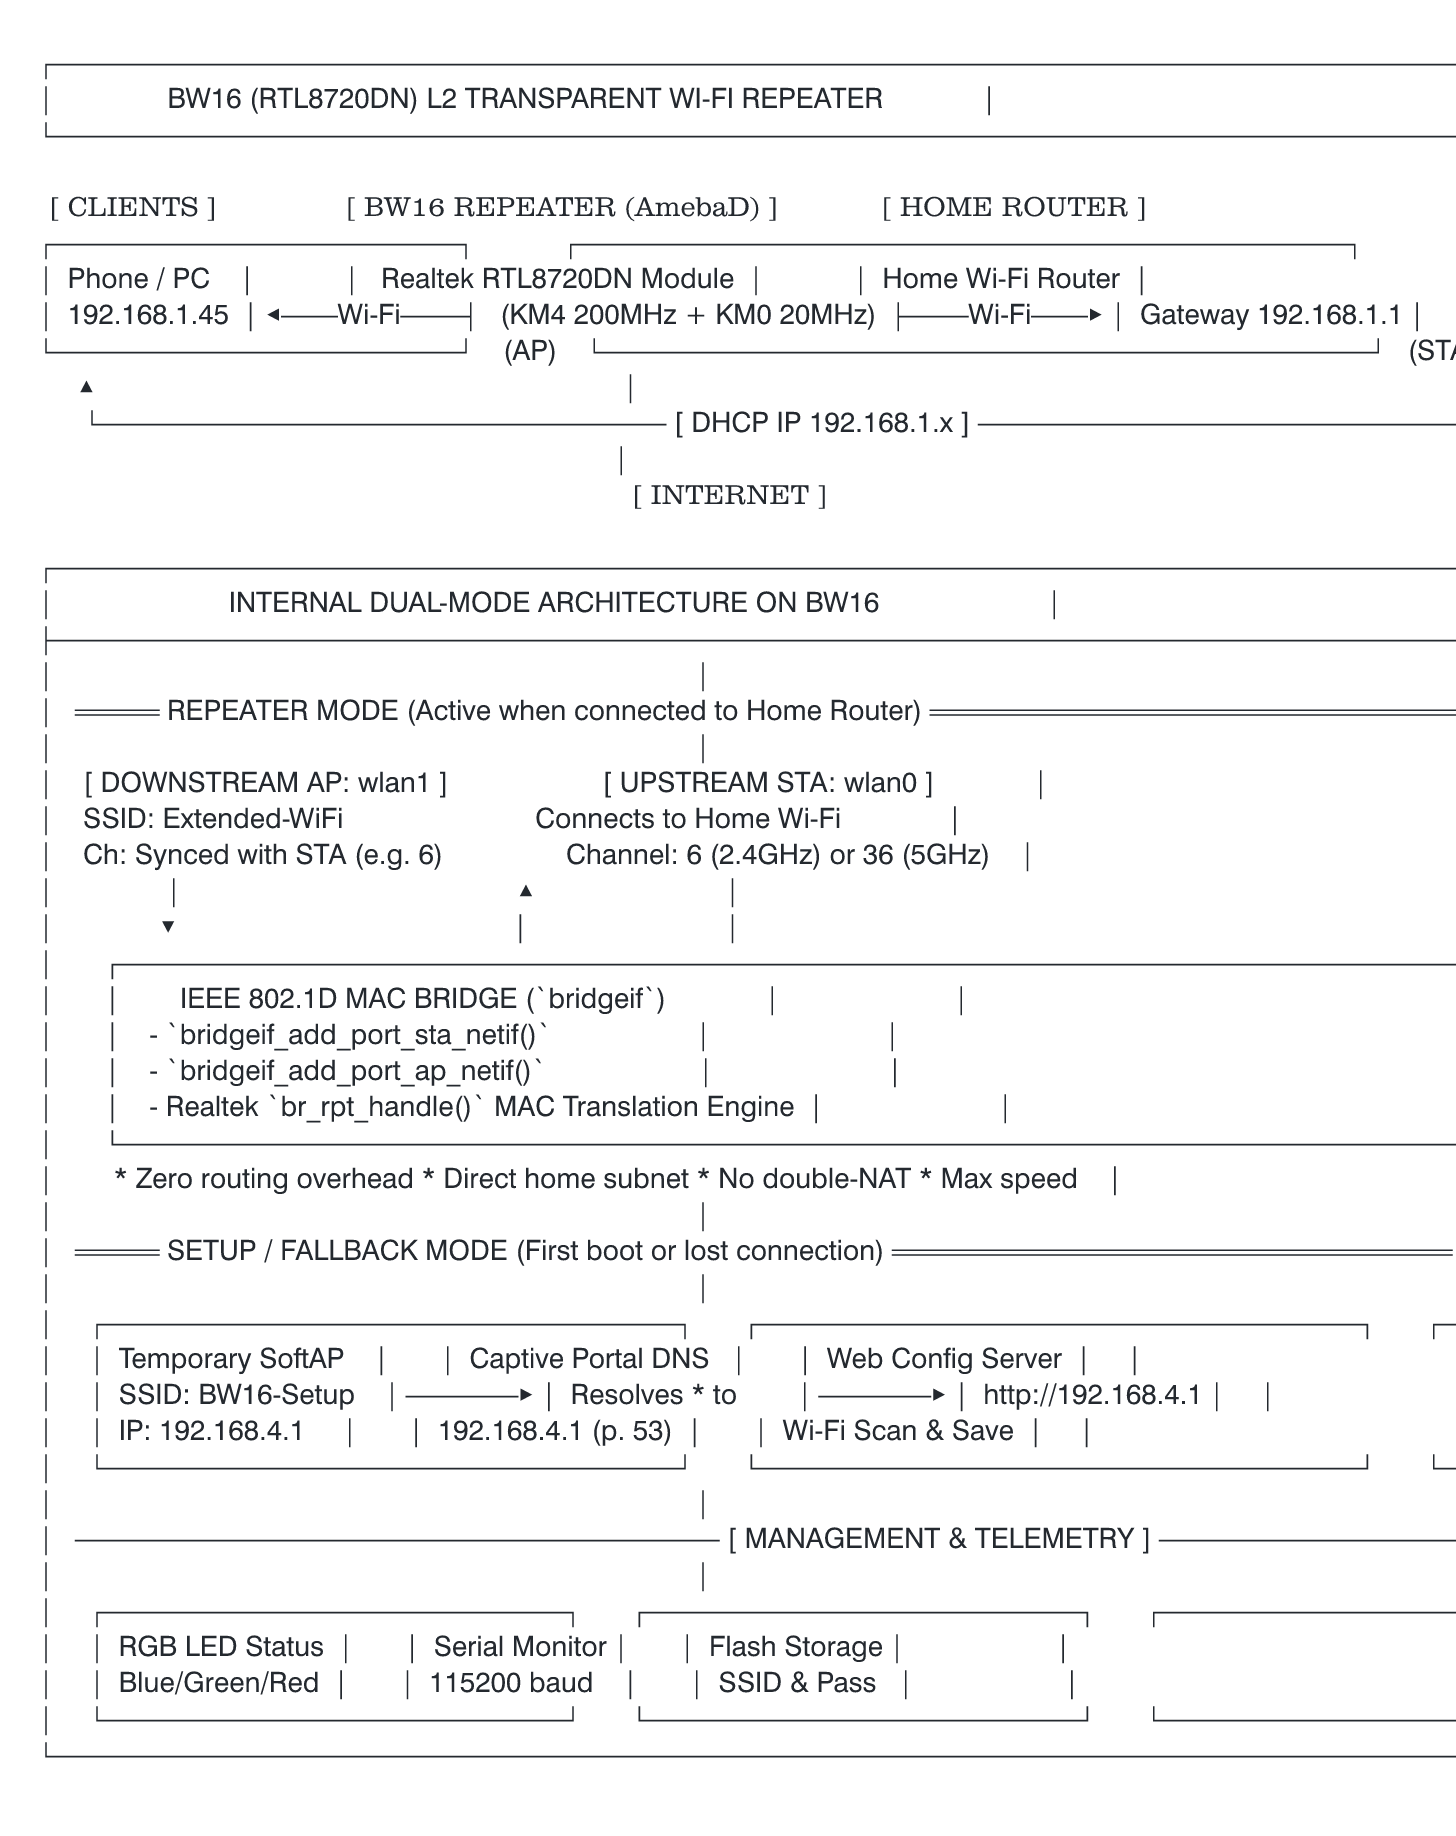
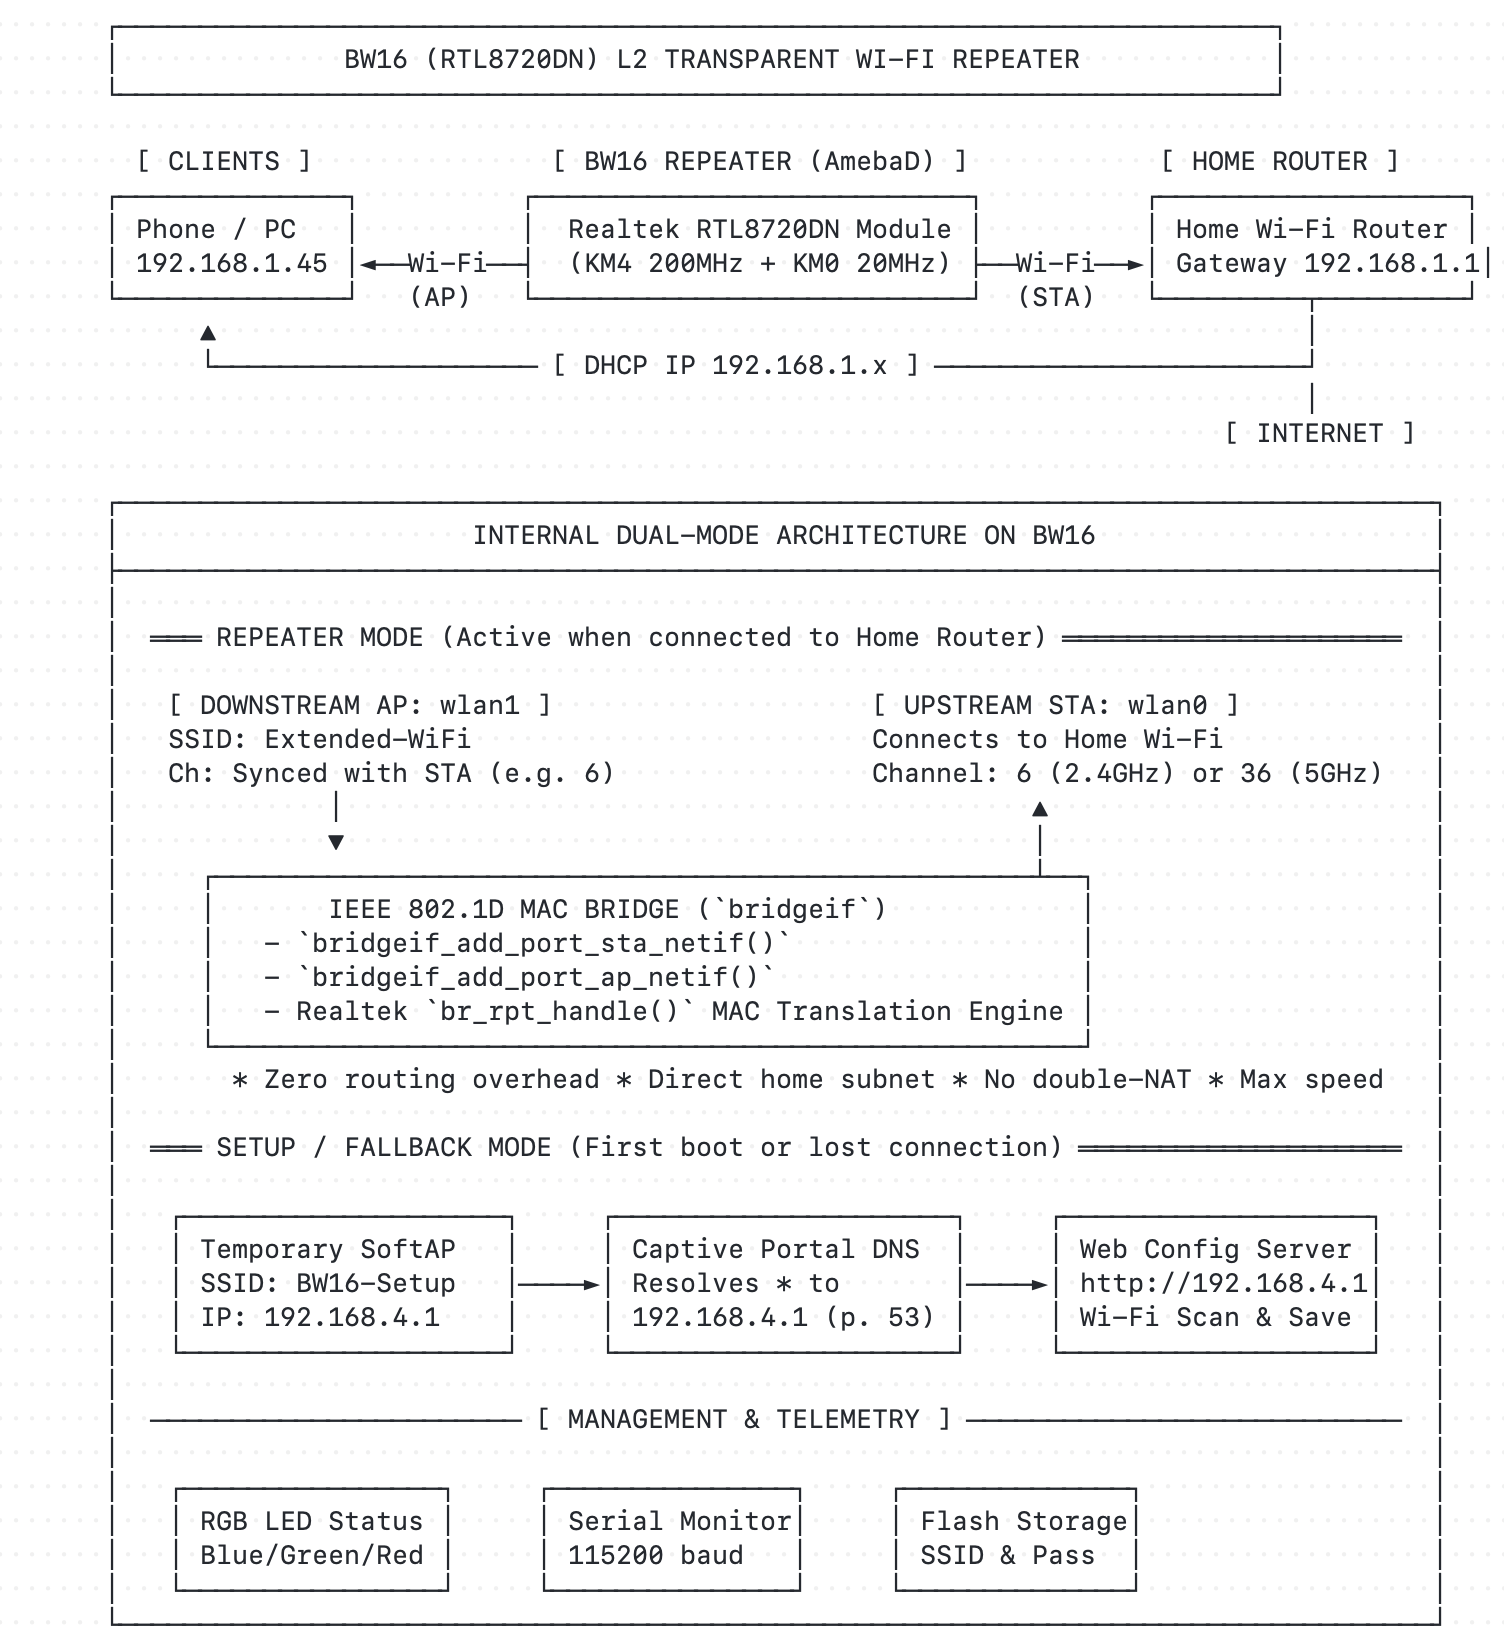
fix(ip): fix 4-argument WiFi.config subnet mask, open default AP, and protect txpower boost

diff --git a/src/webui/WebUI.cpp b/src/webui/WebUI.cpp
@@ -224,12 +224,12 @@ void WebUI::serveMainPage(WiFiClient& c) {
             "<title>Extender WiFi Settings</title><style>"
             "* {box-sizing:border-box;margin:0;padding:0;font-family:-apple-system,BlinkMacSystemFont,'Segoe UI',Roboto,Helvetica,Arial,sans-serif;}"
             "body {background:#f3f5f8;color:#333;min-height:100vh;display:flex;flex-direction:column;}"
-            ".header {background:#0f172a;padding:16px 28px;display:flex;align-items:center;border-bottom:1px solid #1e293b;box-shadow:0 1px 3px rgba(0,0,0,0.1);}"
-            ".brand-box {display:flex;align-items:center;margin-right:20px;color:#38bdf8;}"
-            ".brand-box svg {width:32px;height:32px;fill:currentColor;}"
+            ".header {background:linear-gradient(to right, #c29944, #d3a44a);padding:14px 28px;display:flex;align-items:center;box-shadow:0 2px 8px rgba(0,0,0,0.12);}"
+            ".brand-box {display:flex;align-items:center;margin-right:20px;color:#ffffff;text-shadow:0 1px 2px rgba(0,0,0,0.25);}"
+            ".brand-box svg {width:36px;height:36px;fill:#ffffff;}"
             ".brand-sub {font-size:10px;font-weight:700;letter-spacing:1px;text-transform:uppercase;margin-top:2px;}"
-            ".title-box h1 {font-size:18px;color:#f8fafc;font-weight:600;letter-spacing:-0.2px;}"
-            ".title-box p {font-size:12px;color:#94a3b8;margin-top:2px;}"
+            ".title-box h1 {font-size:20px;color:#2b220e;font-weight:700;letter-spacing:-0.2px;}"
+            ".title-box p {font-size:13px;color:#4a3c1c;margin-top:2px;}"
             ".main-content {max-width:960px;width:95%;margin:28px auto;flex:1;}"
             ".mode-card {background:#ffffff;border:1px solid #e2e8f0;border-radius:12px;padding:24px;margin-bottom:20px;box-shadow:0 1px 3px rgba(0,0,0,0.03);}"
             ".mode-card h2 {font-size:17px;color:#333;font-weight:600;margin-bottom:18px;text-align:center;}"
@@ -238,8 +238,8 @@ void WebUI::serveMainPage(WiFiClient& c) {
             ".icon-node svg {width:46px;height:46px;fill:#2b2b2b;}"
             ".waves {display:flex;align-items:center;color:#444;font-size:24px;font-weight:700;letter-spacing:-2px;}"
             ".cable-line {width:70px;height:3px;background:#333;margin:0 10px;position:relative;top:-6px;}"
-            ".btn-gold {background:#0f172a;color:#ffffff;border:1px solid #0f172a;border-radius:8px;padding:10px 32px;font-size:13px;font-weight:600;cursor:pointer;box-shadow:0 1px 2px rgba(0,0,0,0.05);transition:all 0.15s;}"
-            ".btn-gold:hover {background:#1e293b;border-color:#1e293b;transform:translateY(-1px);}"
+            ".btn-gold {background:linear-gradient(to bottom, #deb052, #be8d36);color:#ffffff;border:1px solid #9f7324;border-radius:6px;padding:10px 36px;font-size:14px;font-weight:700;letter-spacing:0.5px;cursor:pointer;text-shadow:0 1px 2px rgba(0,0,0,0.25);box-shadow:0 2px 4px rgba(0,0,0,0.1);transition:all 0.15s;}"
+            ".btn-gold:hover {background:linear-gradient(to bottom, #e5b85a, #c6943c);transform:translateY(-1px);box-shadow:0 3px 6px rgba(0,0,0,0.15);}"
             ".btn-gold:active {transform:translateY(1px);}"
             ".modal-overlay {position:fixed;top:0;left:0;right:0;bottom:0;background:rgba(0,0,0,0.45);display:flex;align-items:center;justify-content:center;z-index:9999;}"
             ".modal-box {background:#ffffff;border:1px solid #e2e8f0;border-radius:14px;box-shadow:0 20px 40px rgba(0,0,0,0.12);padding:32px 40px;text-align:center;max-width:440px;width:90%;}"

diff --git a/src/wifi_manager/WifiManager.cpp b/src/wifi_manager/WifiManager.cpp
@@ -31,8 +31,6 @@ void WifiManager::begin(ConfigStore& cfg, Logger& log) {
   // Always enable concurrent STA + AP mode (RTW_MODE_STA_AP) on AmebaD RTL8720DN
   WiFi.enableConcurrent();
 
-  applyTxPowerBoost();
-
   activeChannel = c.apChannel > 0 ? c.apChannel : 1;
 
   if (!c.staSsid[0]) {
@@ -57,9 +55,13 @@ void WifiManager::applyTxPowerBoost() {
   if (cfgRef && cfgRef->get().txPowerBoost) {
     char cmd[32];
     snprintf(cmd, sizeof(cmd), "txpower patha=%d", 63);
-    wext_private_command("wlan0", cmd, 0);
-    wext_private_command("wlan1", cmd, 0);
-    if (logger) logger->info(F("[RF] Maximum hardware TX power applied (63 / ~20 dBm)"));
+    if (wifi_is_up(RTW_STA_INTERFACE)) {
+      wext_private_command("wlan0", cmd, 0);
+    }
+    if (wifi_is_up(RTW_AP_INTERFACE)) {
+      wext_private_command("wlan1", cmd, 0);
+    }
+    if (logger) logger->info(F("[RF] Hardware TX power boost applied (63 / ~20 dBm)"));
   }
 }
 
@@ -80,7 +82,8 @@ void WifiManager::startAP(const RepeaterConfig& c, int channel) {
   IPAddress ip((c.apIP >> 24) & 255, (c.apIP >> 16) & 255, (c.apIP >> 8) & 255, c.apIP & 255);
   IPAddress gw((c.apGateway >> 24) & 255, (c.apGateway >> 16) & 255, (c.apGateway >> 8) & 255, c.apGateway & 255);
   IPAddress mask((c.apMask >> 24) & 255, (c.apMask >> 16) & 255, (c.apMask >> 8) & 255, c.apMask & 255);
-  WiFi.config(ip, gw, mask);
+  // Pass 4 arguments: (local_ip, dns_server, gateway, subnet) so gateway is ip and mask is subnet!
+  WiFi.config(ip, ip, ip, mask);
 
   if (channel <= 0) channel = 1;
   activeChannel = channel;

diff --git a/src/wifi_manager/WifiManager.h b/src/wifi_manager/WifiManager.h
@@ -28,6 +28,7 @@ extern "C" {
   extern int wext_del_station(const char *ifname, unsigned char* hwaddr);
   extern int wifi_get_associated_client_list(void * client_list_buffer, unsigned short buffer_length);
   extern int wext_private_command(const char *ifname, char *cmd, int show_msg);
+  extern int wifi_is_up(rtw_interface_t interface);
 }
 
 struct ConnectedClient {

diff --git a/src/utils/ConfigStore.cpp b/src/utils/ConfigStore.cpp
@@ -23,7 +23,7 @@ void ConfigStore::begin() {
   cfg.mode = RepeaterMode::BRIDGE;
   cfg.prefer5g = true;
   strcpy(cfg.apSsid, "BW16-Repeater");
-  strcpy(cfg.apPass, "bw16pass");
+  cfg.apPass[0] = 0;
   cfg.apChannel = 1;
   cfg.apAutoChannel = true;
   strcpy(cfg.webUser, "admin");
